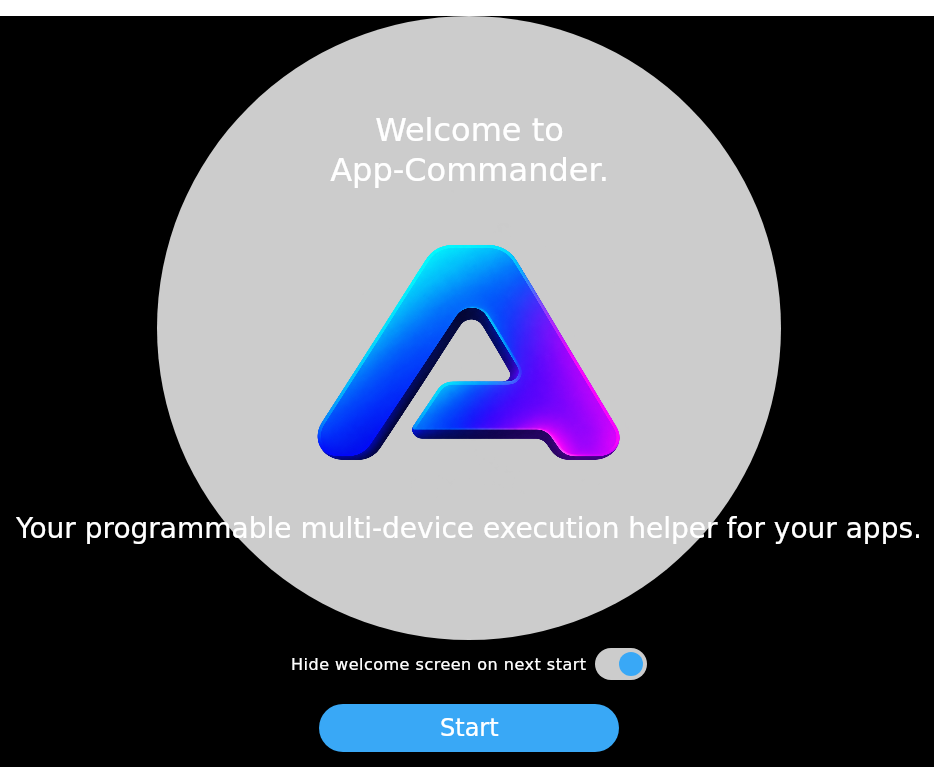
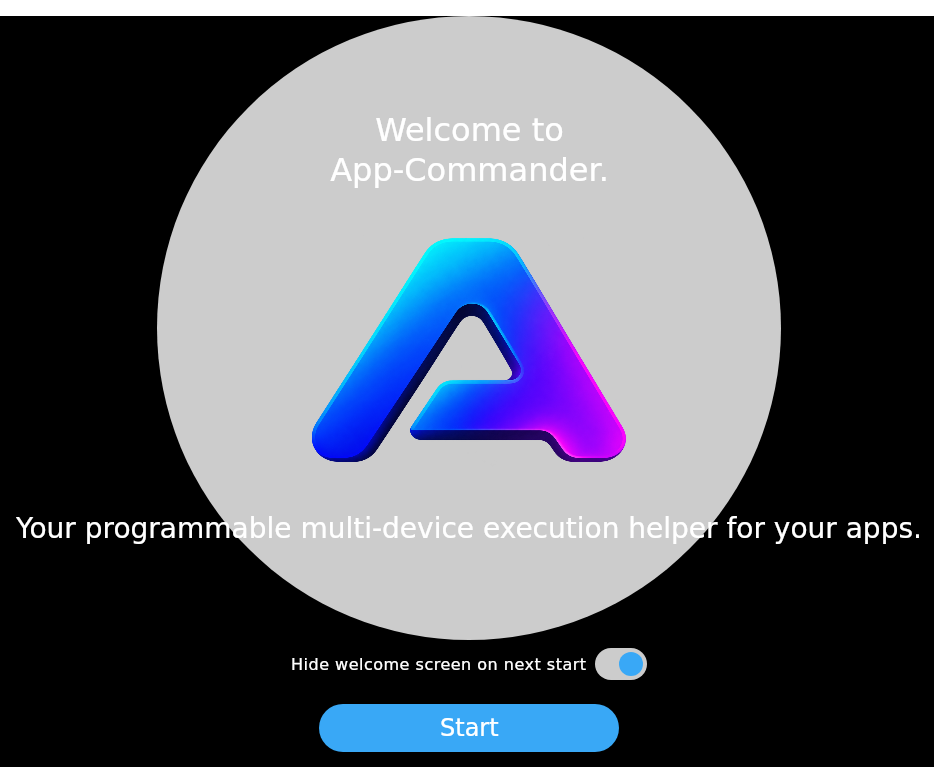
add https://androidweekly.net/issues/issue-744 link (#137)
* add https://androidweekly.net/issues/issue-744 link

* test image cropping

* Fix/Improve

* Fix/Improve

* Fix/Improve

* Fix/Improve

* Fix/Improve

* resize logo

* CI: Update screenshots

* Fix/Improve

diff --git a/README.md b/README.md
@@ -11,6 +11,13 @@
 
 **Hello and welcome.** App-Commander is your powerful desktop application built with Compose Multiplatform (https://kotlinlang.org/compose-multiplatform/) and Kotlin Multiplatform (https://kotlinlang.org/multiplatform/) that simplifies your mobile development workflow. It allows you to define, manage, and execute custom scripts across multiple Android and iOS devices simultaneously. Say goodbye to repetitive manual tasks and hello to streamlined efficiency!
 
+**Mentioned on AndroidWeekly.net (#465 https://androidweekly.net/issues/issue-744)**
+<p align="center">
+<img src="https://androidweekly.net/assets/newsletter/mobile-logo-1-32c9864cfef4d65d90c78e10a0abf699.png" height="40"/>
+<img src="https://androidweekly.net/assets/newsletter/mobile-logo-2-a2cb204854de720ebebecc666c9a0525.png" height="40"/>
+</p>
+
+
 ## 🎥 First Impressions I (YouTube.com)
 | Demo & Preview                                                                                         | Filter & Custom scripts for your apps                                                                   | Write your own custom script                                                                           |
 |--------------------------------------------------------------------------------------------------------|---------------------------------------------------------------------------------------------------------|--------------------------------------------------------------------------------------------------------|
